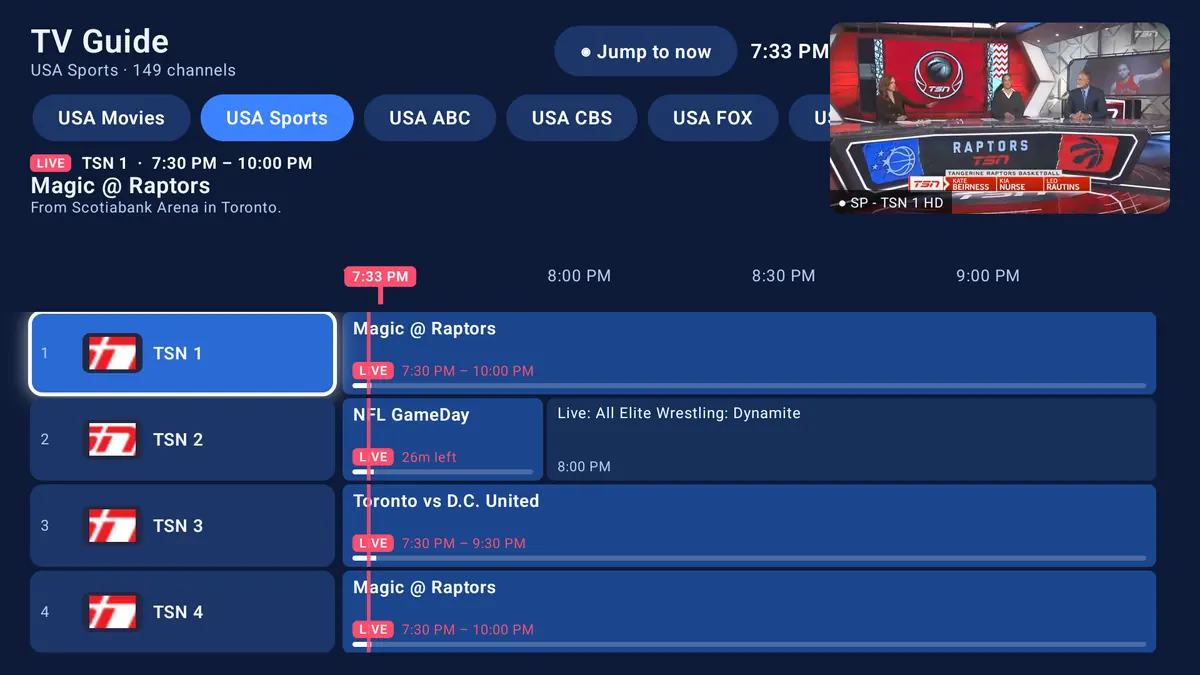
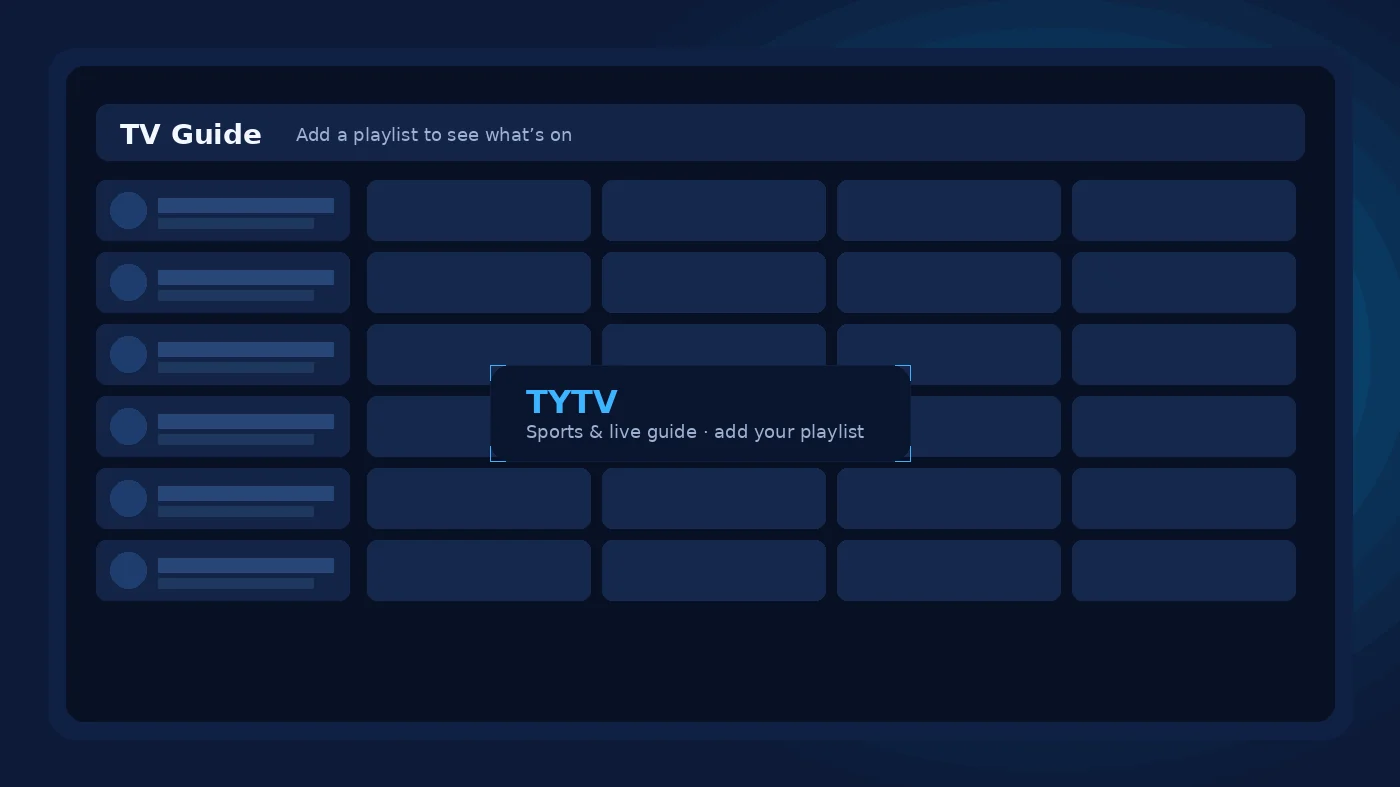
Remove real playlist screenshots from live site
Replace hero, gallery, and OG images with neutral UI
placeholders until demo (made-up) screenshots are ready.

diff --git a/index.html b/index.html
@@ -95,11 +95,11 @@
                 src="assets/guide.webp"
                 width="1400"
                 height="787"
-                alt="TYTV TV Guide on Android TV showing live sports channels and what’s on now"
+                alt="TYTV TV Guide preview on Android TV — add your own playlist"
                 decoding="async"
                 fetchpriority="high">
             </figure>
-            <p class="tv-caption">TV Guide · live sports</p>
+            <p class="tv-caption">TV Guide · preview</p>
           </div>
         </aside>
       </div>
@@ -187,18 +187,18 @@
         <div class="section-head">
           <p class="section-kicker">Inside the app</p>
           <h2>See it on the big screen</h2>
-          <p class="section-lede">Real screenshots from TYTV on an Onn box — no stock mockups.</p>
+          <p class="section-lede">App UI preview — demo playlist screenshots coming soon.</p>
         </div>
         <ul class="shot-gallery">
           <li>
             <figure>
-              <img src="assets/guide.webp" width="1400" height="787" alt="TV Guide grid with live sports and Jump to now" loading="lazy" decoding="async">
+              <img src="assets/guide.webp" width="1400" height="787" alt="TYTV TV Guide layout preview" loading="lazy" decoding="async">
               <figcaption>TV Guide</figcaption>
             </figure>
           </li>
           <li>
             <figure>
-              <img src="assets/home.webp" width="1200" height="675" alt="Classic home with live sports and recently added titles" loading="lazy" decoding="async">
+              <img src="assets/home.webp" width="1200" height="675" alt="TYTV Home layout preview" loading="lazy" decoding="async">
               <figcaption>Home</figcaption>
             </figure>
           </li>
